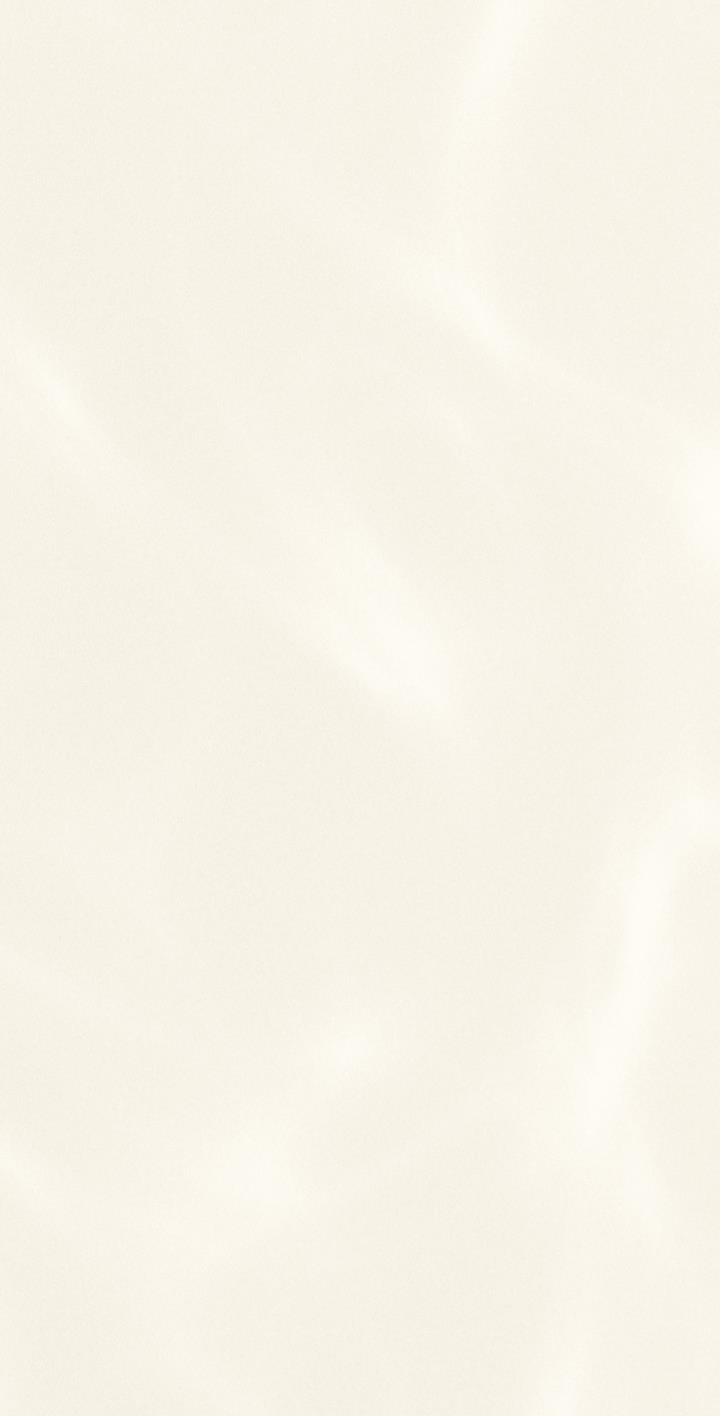
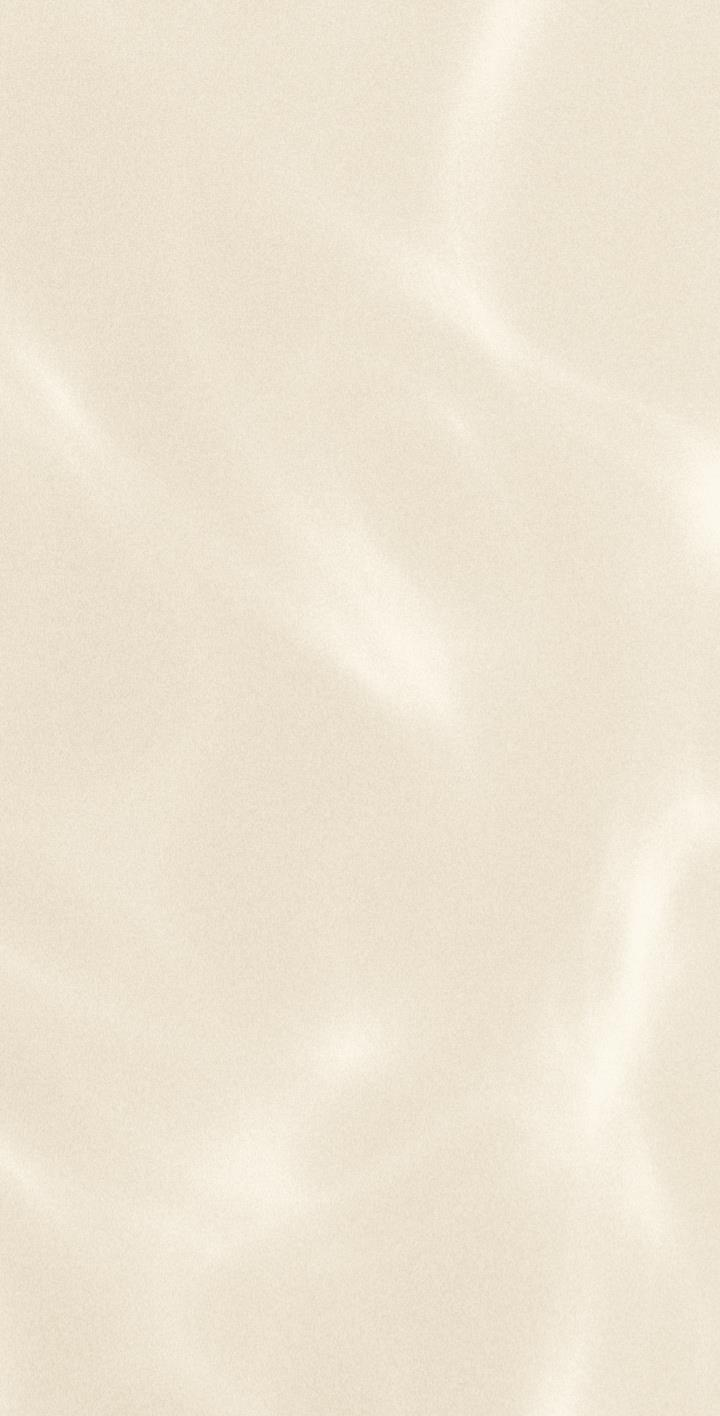
Water: darker background, wide soft blur glow instead of rings

diff --git a/js/app.js b/js/app.js
@@ -154,31 +154,38 @@
             var r = hero.getBoundingClientRect();
             var x = (e.clientX - r.left) * dpr;
             var y = (e.clientY - r.top) * dpr;
-            if (Math.hypot(x - lastRX, y - lastRY) > 28 * dpr) {
+            if (Math.hypot(x - lastRX, y - lastRY) > 18 * dpr) {
                 lastRX = x;
                 lastRY = y;
-                ripples.push({ x: x, y: y, r: 2 * dpr, a: 0.5 });
-                if (ripples.length > 40) ripples.shift();
+                ripples.push({
+                    x: x,
+                    y: y,
+                    r: (70 + Math.random() * 30) * dpr,
+                    a: 0.28,
+                    decay: 0.006 + Math.random() * 0.004
+                });
+                if (ripples.length > 30) ripples.shift();
             }
         });
 
         (function waterLoop() {
             wctx.clearRect(0, 0, waterCanvas.width, waterCanvas.height);
+            wctx.globalCompositeOperation = 'lighter';
             for (var i = ripples.length - 1; i >= 0; i--) {
                 var p = ripples[i];
-                p.r += (1.6 + p.r * 0.02) * dpr;
-                p.a -= 0.008;
+                p.r += 0.35 * dpr;
+                p.a -= p.decay;
                 if (p.a <= 0) { ripples.splice(i, 1); continue; }
-                wctx.lineWidth = 1.6 * dpr;
-                wctx.strokeStyle = 'rgba(255,255,255,' + (p.a * 0.9).toFixed(3) + ')';
+                var g = wctx.createRadialGradient(p.x, p.y, 0, p.x, p.y, p.r);
+                g.addColorStop(0, 'rgba(255,252,244,' + p.a.toFixed(3) + ')');
+                g.addColorStop(0.55, 'rgba(255,252,244,' + (p.a * 0.45).toFixed(3) + ')');
+                g.addColorStop(1, 'rgba(255,252,244,0)');
+                wctx.fillStyle = g;
                 wctx.beginPath();
                 wctx.arc(p.x, p.y, p.r, 0, 6.2832);
-                wctx.stroke();
-                wctx.strokeStyle = 'rgba(45,82,96,' + (p.a * 0.25).toFixed(3) + ')';
-                wctx.beginPath();
-                wctx.arc(p.x, p.y, p.r * 0.82, 0, 6.2832);
-                wctx.stroke();
+                wctx.fill();
             }
+            wctx.globalCompositeOperation = 'source-over';
             requestAnimationFrame(waterLoop);
         })();
     }

diff --git a/css/style.css b/css/style.css
@@ -84,7 +84,7 @@ button { font-family: inherit; cursor: pointer; border: none; background: none; 
     position: absolute;
     inset: 0;
     pointer-events: none;
-    background: rgba(250,244,236,.12);
+    background: rgba(250,244,236,.06);
 }
 .hero__water {
     position: absolute;
